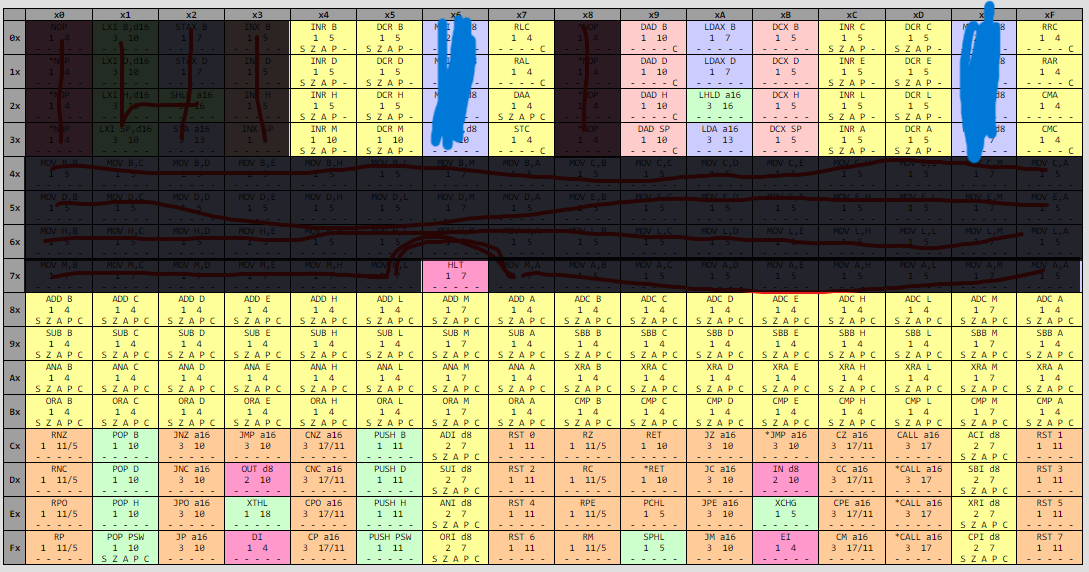
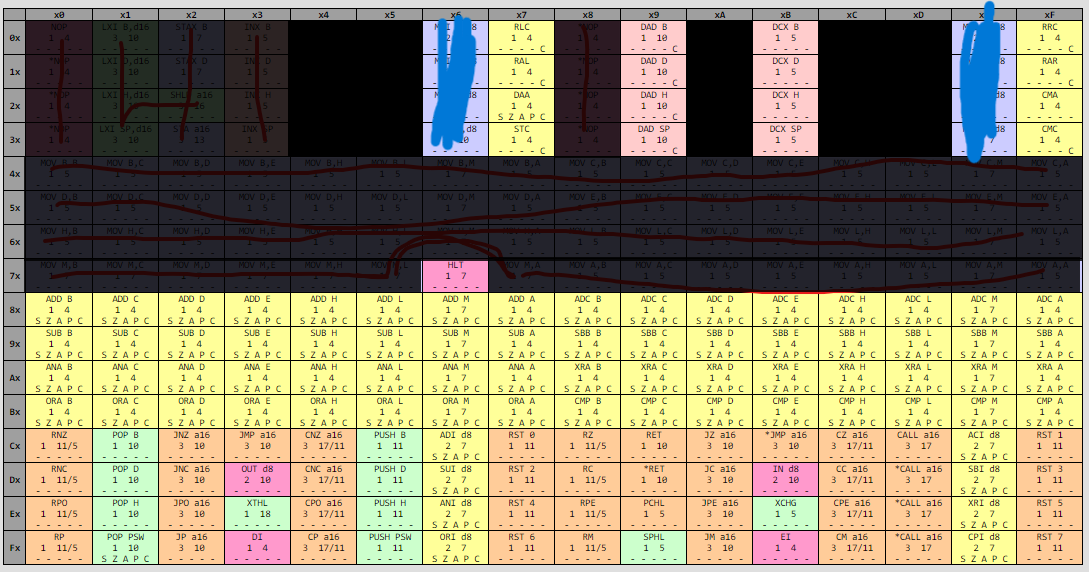
doing opcodes

Changed region(s): [[0.2498, 0.0297, 0.4059, 0.2972], [0.7493, 0.0297, 0.8742, 0.2972], [0.6244, 0.0297, 0.7181, 0.2972]]

diff --git a/8080Emulator/emulator.c b/8080Emulator/emulator.c
@@ -1,7 +1,6 @@
 #include <stdio.h>
 #include <stdlib.h>
 #include "emulator.h"
-#include <cstdint>
 
 void Emulate8080(State8080* state);
 
@@ -32,21 +31,108 @@ int main(int argc, char** argv)
 	return 0;
 }
 
+int parityCheck(uint8_t val1, uint8_t val2)
+{
+	uint8_t result = val1 + val2;
+	int oneCount = 0, result = 0;
+	int bit;
+
+	for(int x = 0; x < 8; x++)
+	{
+		bit = (result) & (1<<(x));
+		if (bit != 0)
+			oneCount++;
+	}
+
+	if ((oneCount % 2) == 0) // even
+		result = 1;
+
+	return result;
+}
+
+void update_s_flag(State8080* state, uint8_t val1, uint8_t val2)
+{	// set to 1 when bit 7 (the most significant bit or MSB) of the math instruction is set
+	uint8_t result = val1 + val2;
+
+	if ((result & 0x80)) // == 1
+		state->cc.s = 1;
+	else
+		state->cc.s = 0;
+}
+
+void update_z_flag(State8080* state, uint8_t val1, uint8_t val2) 
+{	// set to 1 when the result is equal to zero
+	uint8_t result = val1 + val2;
+
+	if (result == 0)
+		state->cc.z = 1;
+	else
+		state->cc.z = 0;
+}
+
+void update_ac_flag_add(State8080* state, uint8_t val1, uint8_t val2)
+{
+	val1 = val1 & ~(0x10); // clears 5th bit
+	uint8_t result = val1 + val2;
+
+	state->cc.ac = result & 0x10 ? 1 : 0;
+}
+
+void update_ac_flag_sub(State8080* state, uint8_t val1, uint8_t val2)
+{
+	val1 = val1 & ~(0x10); // clears 5th bit
+	val2 = (uint8_t)~val2 + 1; // 2's complement
+	uint8_t result = val1 + val2;
+
+	state->cc.ac = result & 0x10 ? 1 : 0;
+}
+
+void update_p_flag(State8080* state, uint8_t val1, uint8_t val2)
+{	// set when the answer has even parity, clear when odd parity
+	state->cc.p = parityCheck(val1, val2);
+}
+
+void update_c_flag(State8080* state, uint8_t val1, uint8_t val2)
+{	// set to 1 when the instruction resulted in a carry out or borrow into the high order bit
+	uint16_t result = val1 + val2;
+
+	if (result > 0xff)    
+		state->cc.cy = 1;    
+	else    
+		state->cc.cy = 0;    
+}
+
 void movRegs(uint8_t* dest, uint8_t* src)
 {
 	*dest = *src;
 }
 
-uint16_t getRPAddr(uint8_t* msb, uint8_t* lsb) // returns address created by register pair concatonation
+uint16_t getRPAddr(uint8_t msb, uint8_t lsb) // returns address created by register pair concatenation
 {
-	uint16_t addr = *msb << 8 | *lsb;
+	uint16_t addr = msb << 8 | lsb;
 	return addr;
 }
 
-uint16_t getHLAddr(State8080* state) // returns address created by register pair concatonation
+uint16_t getHLAddr(State8080* state) // returns address created by HL register pair concatenation
 {
 	uint16_t addr = state->h << 8 | state->l;
 	return addr;
+}
+
+void incRegOrMem(State8080* state, uint8_t val1, uint8_t val2)
+{	
+	update_s_flag(state, val1, val2);
+	update_z_flag(state, val1, val2);
+	update_ac_flag_add(state, val1, val2);
+	update_p_flag(state, val1, val2);
+}
+
+void decRegOrMem(State8080* state, uint8_t val1, uint8_t val2)
+{	
+	update_s_flag(state, val1, val2);
+	update_z_flag(state, val1, val2);
+	update_ac_flag_sub(state, val1, -val2);
+	update_p_flag(state, val1, val2);
 }
 
 void Emulate8080(State8080* state)
@@ -65,7 +151,8 @@ void Emulate8080(State8080* state)
 		case 0x38:	
 			break;
 
-		case 0x01:	// LXI B, d16, load 16-bit immediate data into rp (B, D, H, SP)
+		/* LXI, d16, load 16-bit immediate data into rp (B, D, H, SP) */
+		case 0x01:	// LXI B
 			state->c = opcode[1];   // little-endian, second byte is least significant 
 			state->b = opcode[2];    
 			state->pc += 2;     
@@ -87,57 +174,53 @@ void Emulate8080(State8080* state)
 			state->sp = addr;  
 			state->pc += 2;                  
 			break;
-
-		case 0x04:	printf("INR    B");  break;
-		case 0x05:	printf("DCR    B");  break;
 		
-		case 0x07:	printf("RLC");  break;	
-	
-		case 0x09:	printf("DAD    B");  break;
-		case 0x0a:	printf("LDAX   B");  break;
-		case 0x0b:	printf("DCX    B");  break;
-		case 0x0c:	printf("INR    C");  break;
-		case 0x0d:	printf("DCR    C");  break;
-		
-		case 0x0f:	printf("RRC");  break;	
-		
-		case 0x02:	// STAX B, loads data in reg A to mem addr of BC rp
-			state->memory[getRPAddr(&state->b, &state->c)] = state->a;
+		/* STAX, store accumulator */
+		case 0x02:	// STAX B
+			state->memory[getRPAddr(state->b, state->c)] = state->a;
 			break;
 		case 0x12:	// STAX D
-			state->memory[getRPAddr(&state->d, &state->e)] = state->a;
+			state->memory[getRPAddr(state->d, state->e)] = state->a;
 			break;
+
+		/* LDAX, load accumulator */
+		case 0x0a:	// LDAX B, load accumulator
+			state->a = state->memory[getRPAddr(state->b, state->c)];
+			break; 
+		case 0x1a:	// LDAX C
+			state->a = state->memory[getRPAddr(state->d, state->e)];
+			break; 
 		
-		case 0x14:	printf("INR    D");  break;
-		case 0x15:	printf("DCR    D");  break;
-		
-		case 0x17:	printf("RAL");  break;	
-		
-		case 0x19:	printf("DAD    D");  break;
-		case 0x1a:	printf("LDAX   D");  break;
-		case 0x1b:	printf("DCX    D");  break;
-		case 0x1c:	printf("INR    E");  break;
-		case 0x1d:	printf("DCR    E");  break;
-		
-		case 0x1f:	printf("RAR");  break;	
-		
-		case 0x22:	// SHLD, Store Hand L DirectLabel
+		case 0x22:	// SHLD, Store H and L to memory
 			uint16_t addr = opcode[1] << 8 | opcode[0];	
 			state->memory[addr] = state->l;
 			state->memory[(uint16_t)(addr + 1)] = state->h;     
 			state->pc += 2;  
 			break; 
 
-		case 0x32:	// STA a16  
+		case 0x2a:	// LHLD, Load H and L from
 			uint16_t addr = opcode[1] << 8 | opcode[0];	
-			state->memory[addr] = state->l;
-			state->memory[(uint16_t)(addr + 1)] = state->h;  
+			state->l = state->memory[addr]; 
+			state->h = state->memory[(uint16_t)(addr + 1)];
+			state->pc += 2;
+			break;
+
+		case 0x32:	// STA a16, Store accumulator direct 
+			uint16_t addr = opcode[1] << 8 | opcode[0];	
+			state->memory[addr] = state->a;
 			state->pc += 2;               
 			break;
 
-		case 0x03:	// INX B, increment register pair
+		case 0x3a:	// LDA a16, Load accumulator direct
+			uint16_t addr = opcode[1] << 8 | opcode[0];	
+			state->a = state->memory[addr];
+			state->pc += 2;               
+			break;
+
+		/* INX, increment register pair */
+		case 0x03:	// INX B 
 			state->b++;
-			state->c++;                  
+			state->c++;            
 			break; 
 		case 0x13:	// INX D
 			state->d++;
@@ -150,7 +233,54 @@ void Emulate8080(State8080* state)
 		case 0x33:	// INX SP
 			state->sp++;                 
 			break;
+
+		/* INR, Increment Register or Memory */
+		case 0x04:	// INR B 	
+			incRegOrMem(state, state->b, 1);
+			break;
+		case 0x14:	// INR D
+			incRegOrMem(state, state->d, 1);
+			break;
+		case 0x24:	// INR H
+			incRegOrMem(state, state->h, 1);
+			break;
+		case 0x34:	// INR M
+			uint16_t addr = getHLAddr(state);
+			incRegOrMem(state, state->memory[addr], 1);
+			break;
+		case 0x0c:	// INR C
+			incRegOrMem(state, state->c, 1);
+			break;
+		case 0x1c:	// INR E
+			incRegOrMem(state, state->e, 1);
+			break;
+		case 0x2c:	// INR L
+			incRegOrMem(state, state->l, 1);
+			break;
+		case 0x3c:	// INR A
+			incRegOrMem(state, state->a, 1);
+			break;
+
+		/* DCR, Decrement Register or Memory */
+		case 0x05:	// INR B	
+			decRegOrMem(state, state->b, -1);  break;
+		case 0x15:	// INR D	
+			decRegOrMem(state, state->d, -1);  break;
+		case 0x25:	// INR H	
+			decRegOrMem(state, state->h, -1);  break;
+		case 0x35:	// INR M	
+			uint16_t addr = getHLAddr(state);
+			decRegOrMem(state, state->memory[addr], -1);  break;
+		case 0x0d:	// INR C	
+			decRegOrMem(state, state->c, -1);  break;
+		case 0x1d:	// INR E	
+			decRegOrMem(state, state->e, -1);  break;
+		case 0x2d:	// INR L	
+			decRegOrMem(state, state->l, -1);  break;
+		case 0x3d:	// INR A	
+			decRegOrMem(state, state->a, -1);  break;
 		
+		/* MVI, Move Immediate Byte to Reg or Byte address*/ 
 		case 0x06:	state->b = opcode[0]; state->pc += 1; break; 	// MVI B
 		case 0x16:	state->c = opcode[0]; state->pc += 1; break;	// MVI D
 		case 0x26:	state->h = opcode[0]; state->pc += 1; break;	// MVI H
@@ -160,33 +290,32 @@ void Emulate8080(State8080* state)
 		case 0x2e:	state->l = opcode[0]; state->pc += 1; break;	// MVI L
 		case 0x3e:	state->a = opcode[0]; state->pc += 1; break;	// MVI A
 
-		case 0x24:	printf("INR    H");  break;
-		case 0x25:	printf("DCR    H");  break;
+		case 0x07:	printf("RLC");  break;
+		case 0x17:	printf("RAL");  break;		
 		
 		case 0x27:	printf("DAA");  break;	
-		
-		case 0x29:	printf("DAD    H");  break;
-		case 0x2a:	printf("LHLD   adr,#$%02x%02x", codeLine[2], codeLine[1]); state->pc += 2; break; 
-		case 0x2b:	printf("DCX    H");  break;
-		case 0x2c:	printf("INR    L");  break;
-		case 0x2d:	printf("DCR    L");  break;
-		
-		case 0x2f:	printf("CMA");  break;
-		
-		case 0x34:	printf("INR    M");   break;
-		case 0x35:	printf("DCR    M");   break;
-		
+
 		case 0x37:	printf("STC");  break;
 		
-		case 0x39:	printf("DAD    SP");  break;
-		case 0x3a:	printf("LDA    adr,#$%02x%02x", codeLine[2], codeLine[1]); state->pc += 2; break;
+		/* DAD */
+		case 0x09:	printf("DAD    B");  break;
+		case 0x19:	printf("DAD    D");  break;
+		case 0x29:	printf("DAD    H");  break;
+		case 0x39:	printf("DAD    SP"); break;
+
+		/* DCX */
+		case 0x0b:	printf("DCX    B");  break;
+		case 0x1b:	printf("DCX    D");  break;
+		case 0x2b:	printf("DCX    H");  break;
 		case 0x3b:	printf("DCX    SP");  break;
-		case 0x3c:	printf("INR    A");  break;
-		case 0x3d:	printf("DCR    A");  break;
 		
+		case 0x0f:	printf("RRC");  break;
+		case 0x1f:	printf("RAR");  break;
+
+		case 0x2f:	printf("CMA");  break;
 		case 0x3f:	printf("CMC");  break;
 
-		// MOV
+		/* MOV */ 
 		case 0x40:	break;
 		case 0x41:	moveRegs(&state->b, &state->c); break;
 		case 0x42:	moveRegs(&state->b, &state->d); break;
@@ -250,7 +379,7 @@ void Emulate8080(State8080* state)
 		case 0x74:	moveRegs(&state->memory[getHLAddr(state)], &state->h); break;
 		case 0x75:	moveRegs(&state->memory[getHLAddr(state)], &state->l); break;
 		case 0x77:	moveRegs(&state->memory[getHLAddr(state)], &state->a); break;
-		// END OF MOV
+		/* END OF MOV */
 
 		case 0x76:	printf("HLT");  break;
 
